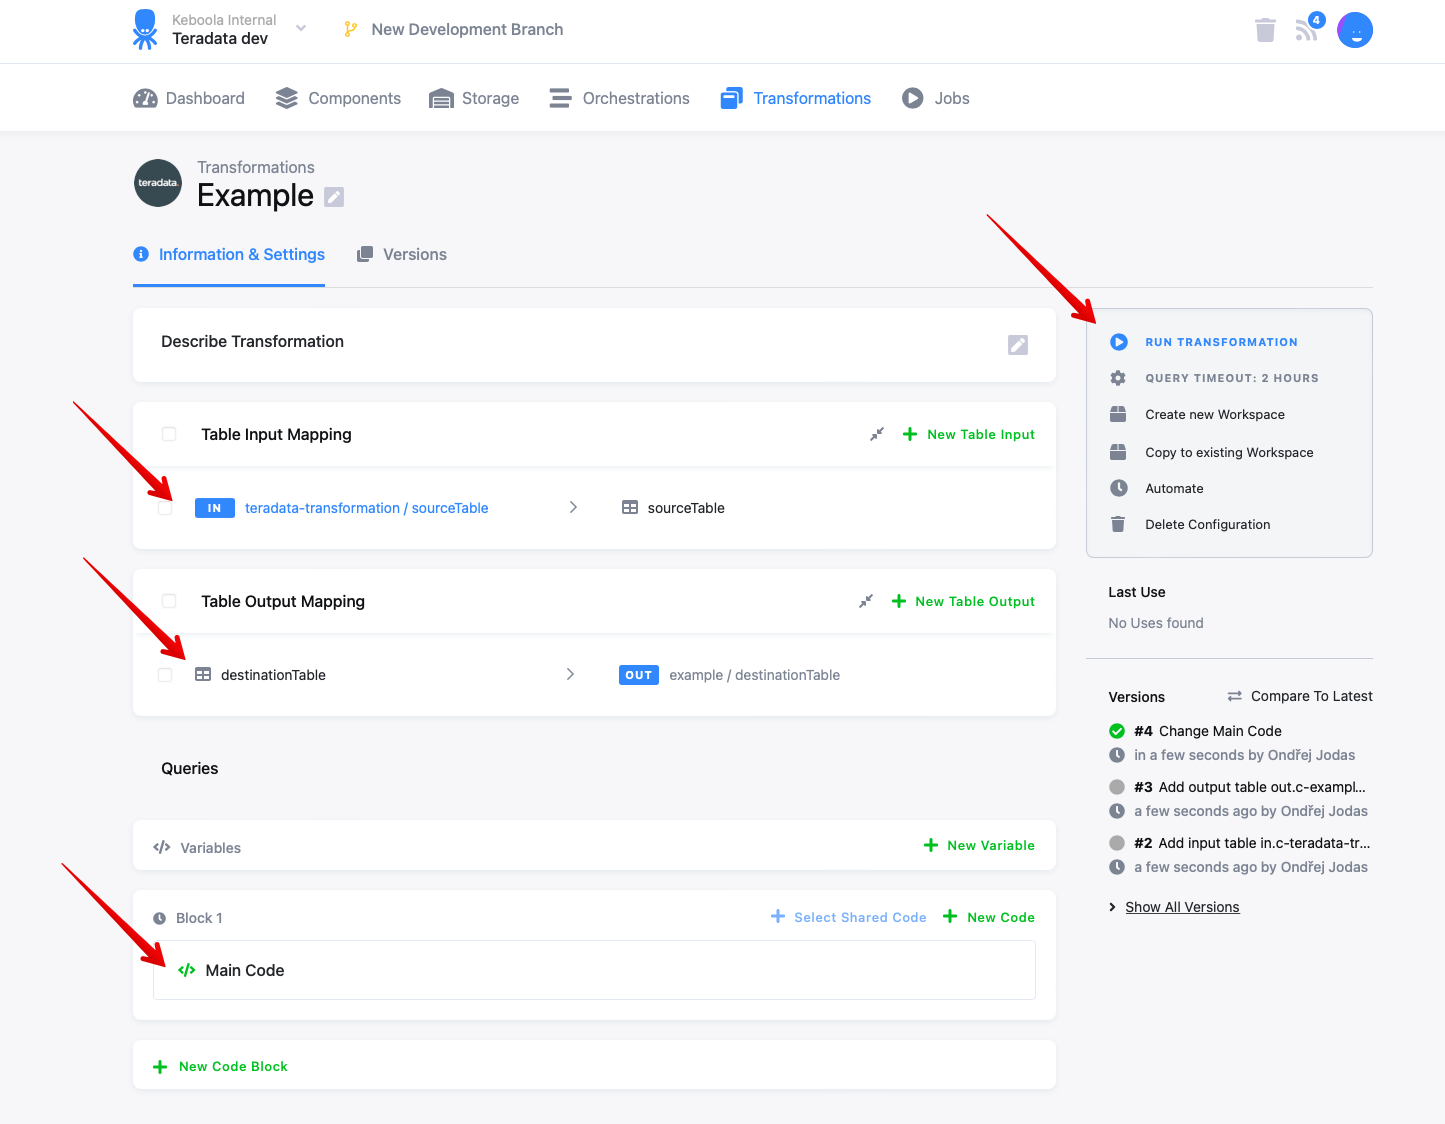
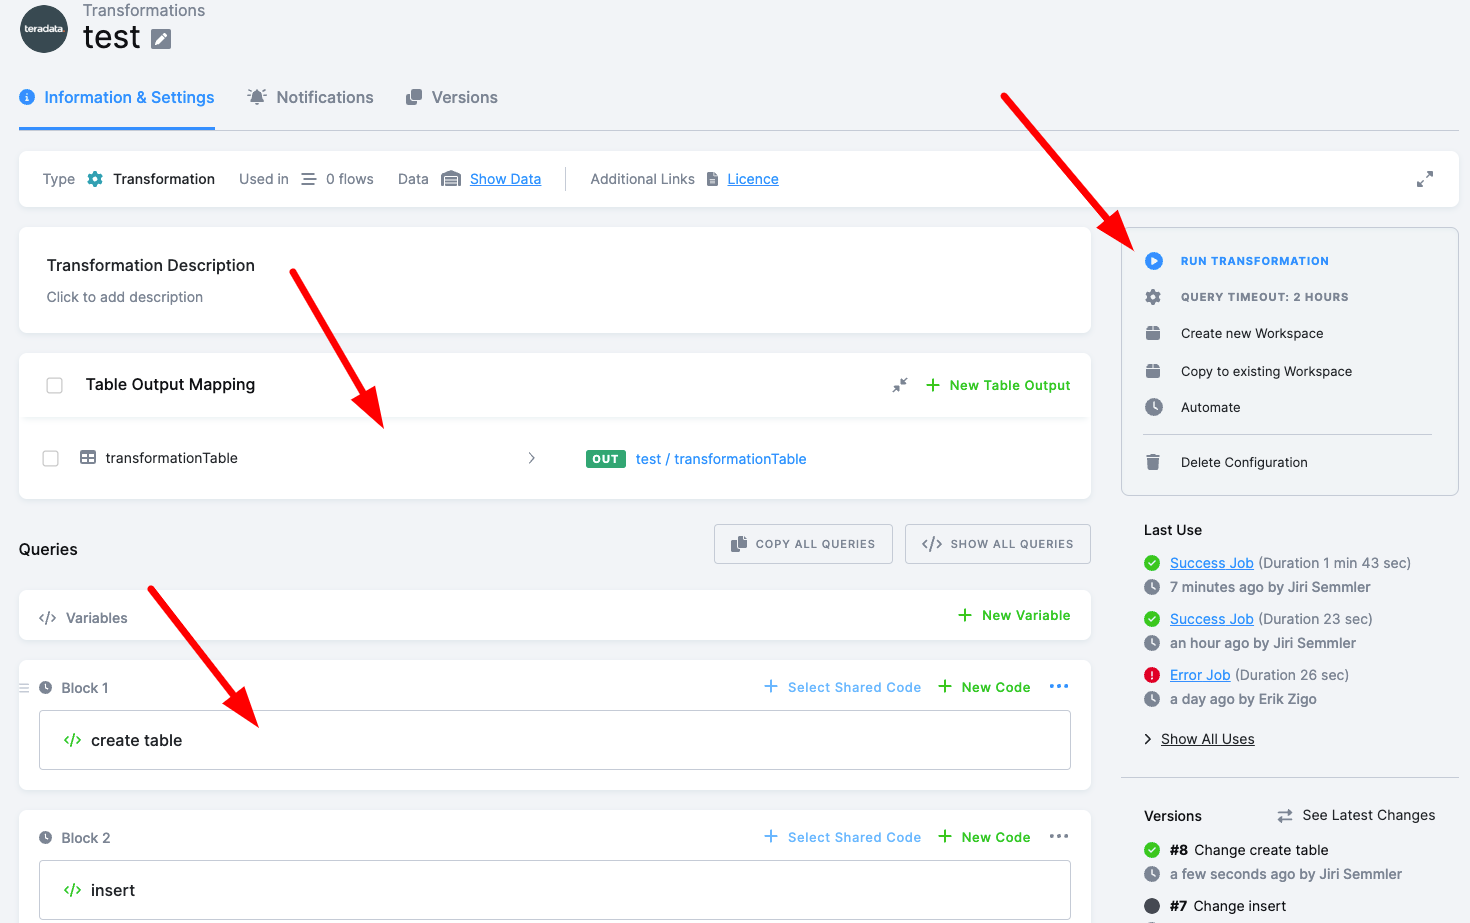
TER-31 update TD transformation docs

diff --git a/transformations/teradata/index.md b/transformations/teradata/index.md
@@ -6,20 +6,25 @@ permalink: /transformations/teradata/
 * TOC
 {:toc}
 
-[Teradata Vantage™](https://www.teradata.com/) is the connected multi-cloud data platform for enterprise analytics that unifies everything—data lakes, data warehouses, analytics, and new data sources and types.
-Leading the way with hybrid multi-cloud environments and priced for flexibility, Vantage delivers unlimited intelligence to build the future of your business.
+[Teradata Vantage™](https://www.teradata.com/) is the connected multi-cloud data platform for enterprise analytics that unifies everything—data lakes, data warehouses, analytics, and new data sources and types. Latest version 17.10 is currently supported.
 
 ## Example
 To create a simple Teradata transformation, follow these steps:
 
 - Create a table in Storage by uploading this [sample CSV file](/transformations/source.csv).
-- Create an input mapping from that table, setting its destination to `source` (as expected by the Snowflake script).
+- Created table will be available in your transformation (or Workspace) via [Read-only Input-mapping](), so there is no option to specify standard Input mapping.
 - Create an output mapping, setting its destination to a new table in your Storage.
 - Copy & paste the below script into the transformation code.
 - Save and run the transformation.
 
 {% highlight sql %}
-CREATE TABLE "destinationTable" AS (SELECT "first", "second" FROM "sourceTable") WITH DATA;
+CREATE TABLE "transformationTable" (
+"id" INT NOT NULL,
+"name" VARCHAR(10) NOT NULL
+);
+
+INSERT INTO "transformationTable" ("id", "name") VALUES (1, 'john');
+INSERT INTO "transformationTable" ("id", "name") VALUES (2, 'doe');
 {% endhighlight %}
 
 {: .image-popup}
